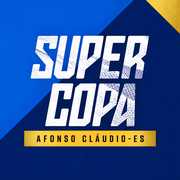
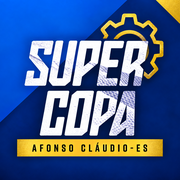
Admin: novo icone do app (iOS, Android e PWA)

diff --git a/index.html b/index.html
@@ -9,9 +9,9 @@
 <meta name="apple-mobile-web-app-title" content="Supercopa Admin">
 <meta name="apple-mobile-web-app-status-bar-style" content="black-translucent">
 <title>Supercopa Admin</title>
-<link rel="manifest" href="manifest.webmanifest">
-<link rel="icon" href="icon-192.png">
-<link rel="apple-touch-icon" href="icon-180.png">
+<link rel="manifest" href="manifest.webmanifest?v=2">
+<link rel="icon" href="icon-192.png?v=2">
+<link rel="apple-touch-icon" href="icon-180.png?v=2">
 <link rel="preconnect" href="https://fonts.googleapis.com">
 <link href="https://fonts.googleapis.com/css2?family=Barlow+Condensed:wght@500;600;700;800&family=Barlow:wght@400;500;600;700&display=swap" rel="stylesheet">
 <style>

diff --git a/sw.js b/sw.js
@@ -1,5 +1,5 @@
 // Cache só do "casco" do app; todos os dados vêm sempre da rede.
-const V = 'sc-admin-v4';
+const V = 'sc-admin-v5';
 const CASCO = ['./', './index.html', './admin.js', './logo-branco.png', './icon-192.png', './icon-512.png', './manifest.webmanifest'];
 self.addEventListener('install', e => { e.waitUntil(caches.open(V).then(c => c.addAll(CASCO)).then(() => self.skipWaiting())); });
 self.addEventListener('activate', e => { e.waitUntil(caches.keys().then(ks => Promise.all(ks.filter(k => k !== V).map(k => caches.delete(k)))).then(() => self.clients.claim())); });
